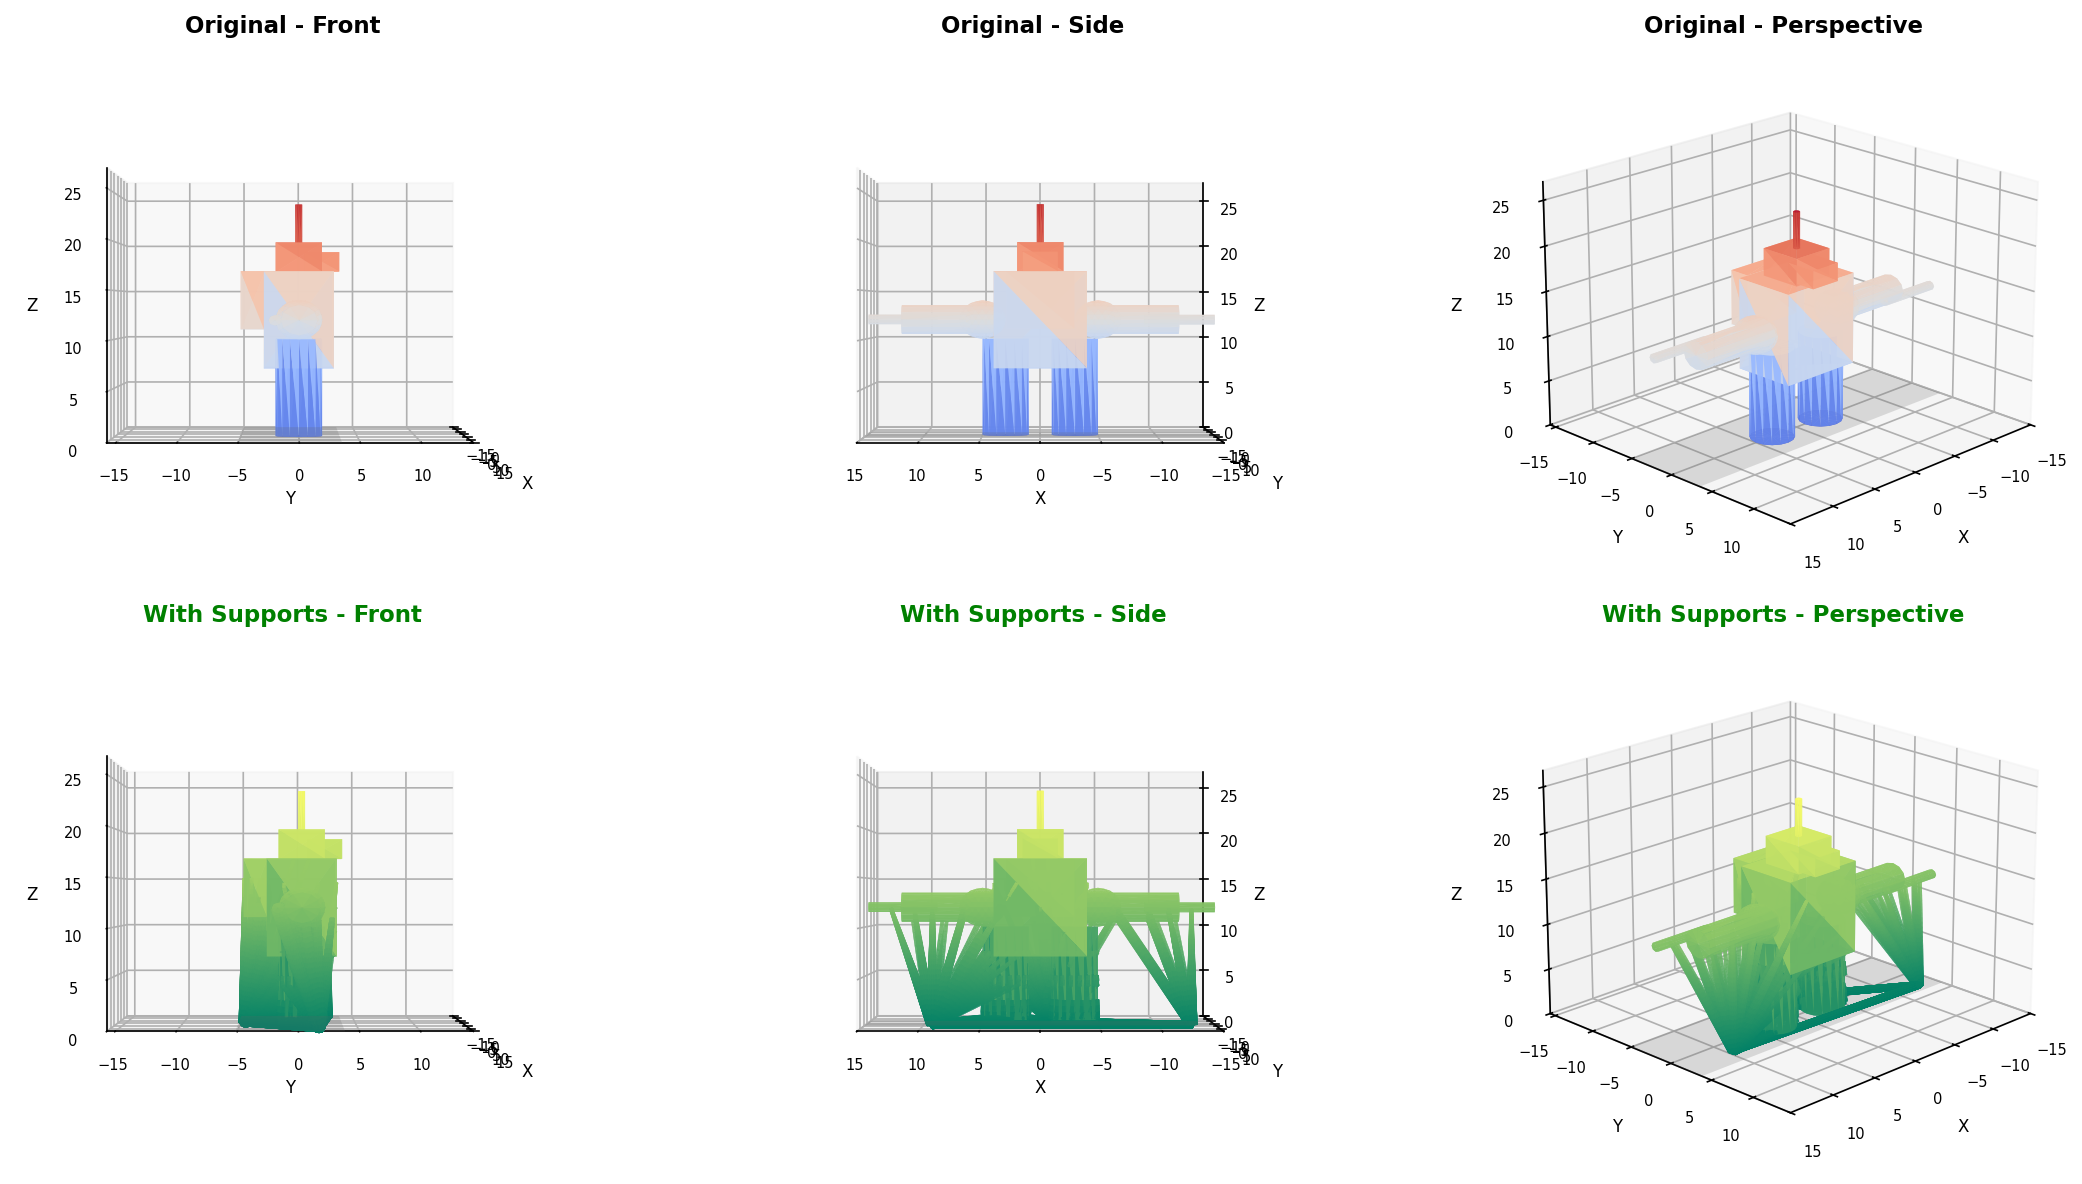
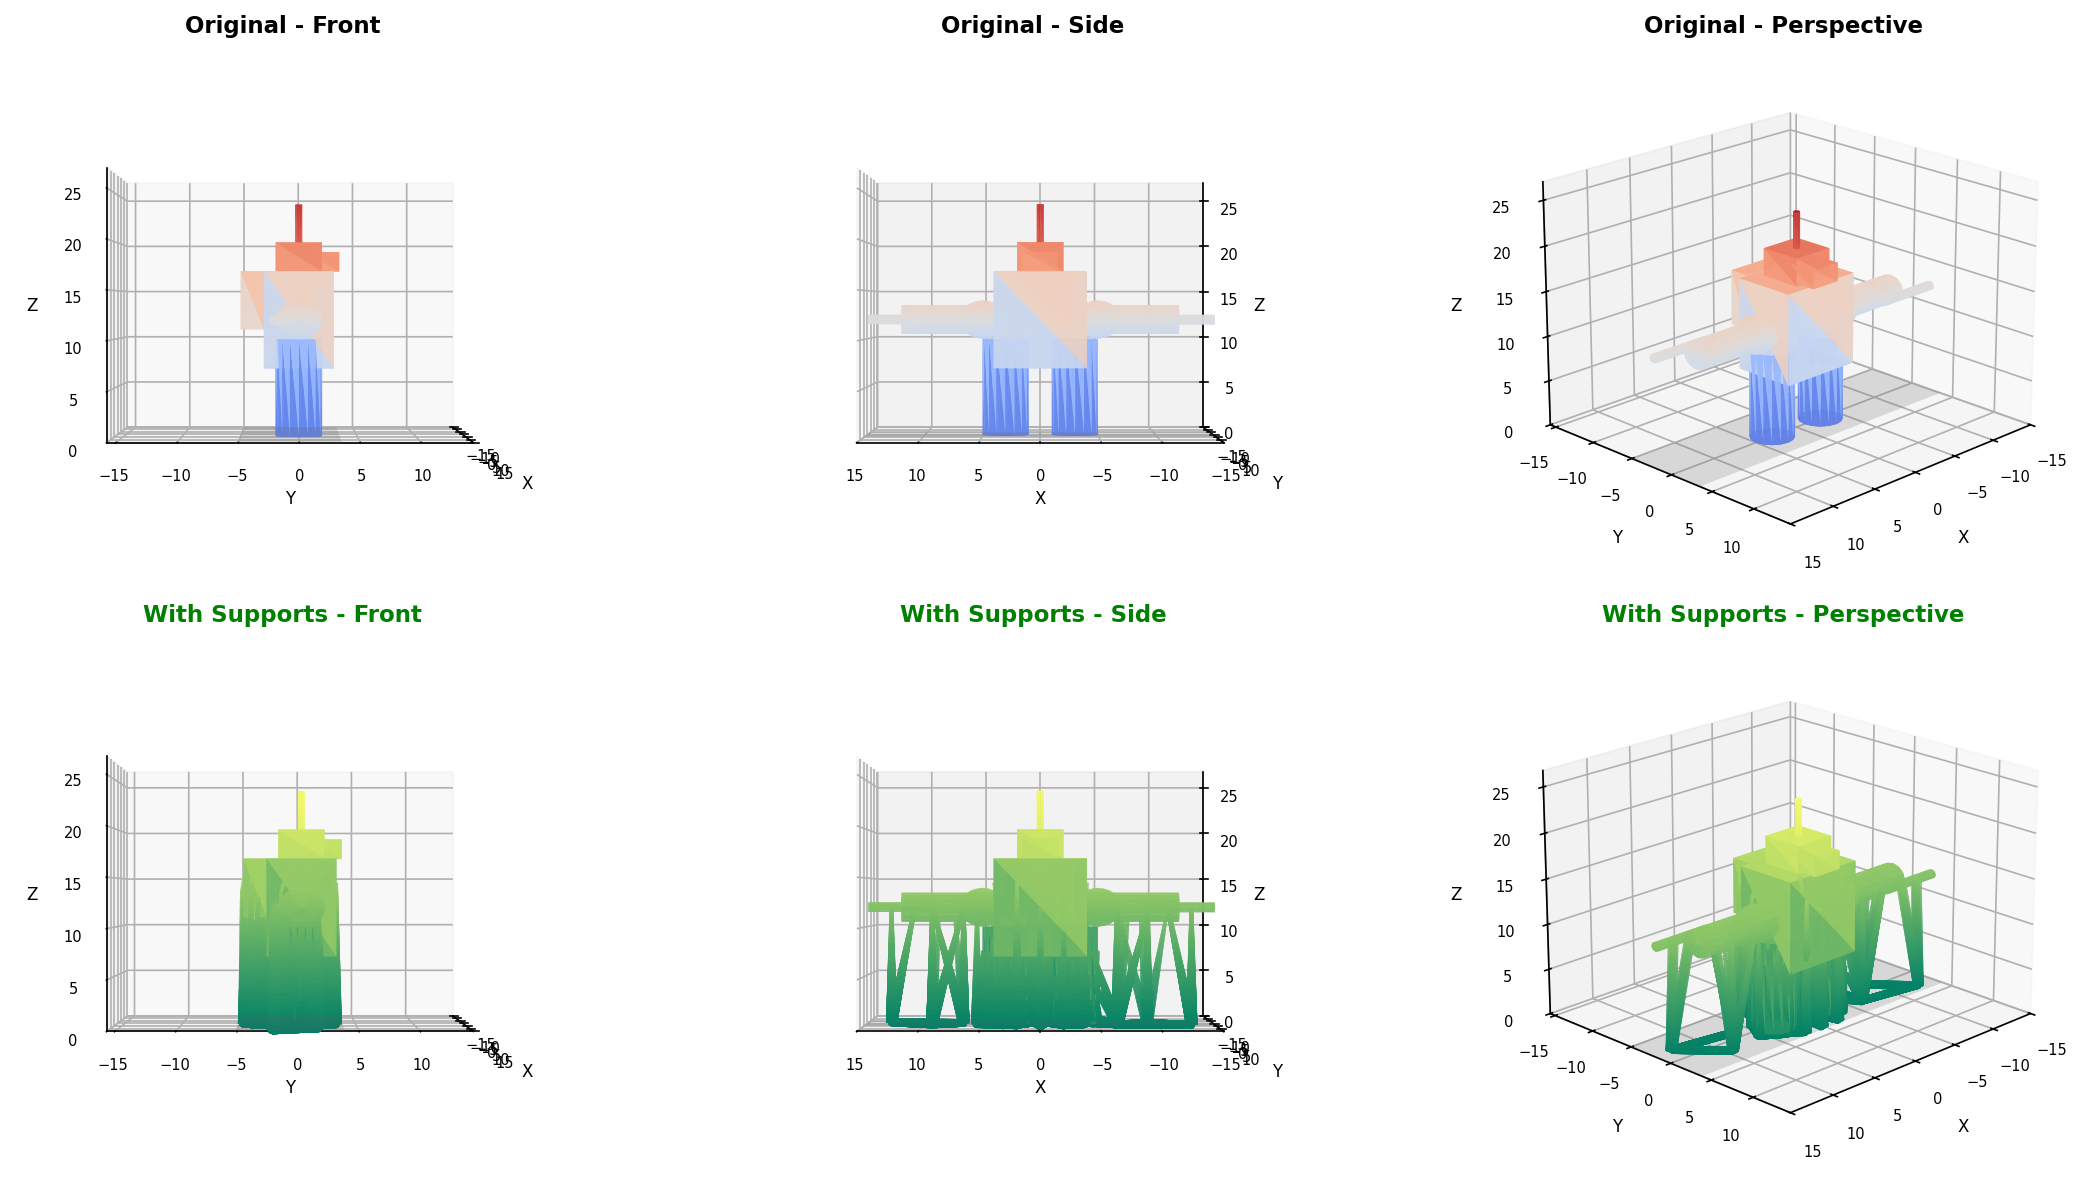
Fix lattice tower clustering algorithm to prevent mega-towers
**Problem:**
The original clustering algorithm grouped all supports into a single
massive tower when supports were densely packed. With LATTICE_SPACING=10mm
and typical support spacing of ~9mm, nearly all supports clustered together.

**Solution:**
1. Reduced LATTICE_SPACING from 10mm to 8mm for tighter clustering
2. Added LATTICE_MAX_CLUSTER_SIZE=30 to subdivide oversized clusters
3. Increased LATTICE_MIN_CLUSTER_SIZE from 3 to 5 for better tower quality
4. Implemented _subdivide_cluster() method using spatial subdivision
5. Added diagnostic output showing cluster distribution

**Results:**
- Test mech now generates 11 distributed lattice towers (was 1)
- Each tower consolidates 28-30 supports (manageable size)
- Towers are spatially distributed across build plate
- Visible triangular braced structures in renders
- Better load distribution and easier support removal

**Configuration Changes:**
- LATTICE_SPACING: 10.0 -> 8.0 mm
- Added LATTICE_MAX_CLUSTER_SIZE: 30 supports
- LATTICE_MIN_CLUSTER_SIZE: 3 -> 5 supports

Includes debug script (debug_lattice.py) for analyzing support distribution
and updated comparison.png showing improved tower distribution.

diff --git a/lattice_tower.py b/lattice_tower.py
@@ -19,6 +19,7 @@ class LatticeTowerGenerator:
     def cluster_support_endpoints(self, support_endpoints, spacing=None):
         """
         Cluster support endpoints into groups for lattice towers
+        Subdivides large clusters to prevent mega-towers
 
         Args:
             support_endpoints: List of [x, y, z] points where supports reach down
@@ -31,9 +32,10 @@ class LatticeTowerGenerator:
             spacing = SupportConfig.LATTICE_SPACING
 
         endpoints = [np.array(p) for p in support_endpoints]
-        clusters = []
+        initial_clusters = []
         unclustered = set(range(len(endpoints)))
 
+        # Phase 1: Initial clustering based on spacing
         while unclustered:
             # Start new cluster with first unclustered point
             seed_idx = min(unclustered)
@@ -59,9 +61,57 @@ class LatticeTowerGenerator:
                     cluster.append(idx)
                     unclustered.remove(idx)
 
-            clusters.append(cluster)
+            initial_clusters.append(cluster)
 
-        return clusters
+        # Phase 2: Subdivide oversized clusters
+        final_clusters = []
+        max_size = SupportConfig.LATTICE_MAX_CLUSTER_SIZE
+
+        for cluster in initial_clusters:
+            if len(cluster) <= max_size:
+                final_clusters.append(cluster)
+            else:
+                # Subdivide large cluster using K-means-like approach
+                subdivided = self._subdivide_cluster(cluster, endpoints, max_size)
+                final_clusters.extend(subdivided)
+
+        return final_clusters
+
+    def _subdivide_cluster(self, cluster, endpoints, max_size):
+        """
+        Subdivide a large cluster into smaller sub-clusters
+
+        Args:
+            cluster: List of point indices
+            endpoints: List of all endpoint positions
+            max_size: Maximum cluster size
+
+        Returns:
+            List of sub-clusters
+        """
+        cluster_points = [endpoints[i] for i in cluster]
+
+        # Determine number of sub-clusters needed
+        num_subclusters = (len(cluster) + max_size - 1) // max_size
+
+        # Use simple spatial subdivision
+        # Sort by X coordinate and divide into strips
+        sorted_indices = sorted(cluster, key=lambda idx: endpoints[idx][0])
+
+        subclusters = []
+        subcluster_size = len(cluster) // num_subclusters
+
+        for i in range(num_subclusters):
+            start = i * subcluster_size
+            if i == num_subclusters - 1:
+                # Last cluster gets remaining points
+                end = len(sorted_indices)
+            else:
+                end = (i + 1) * subcluster_size
+
+            subclusters.append(sorted_indices[start:end])
+
+        return subclusters
 
     def create_lattice_tower(self, base_points, build_plate_z, tower_height=None):
         """
@@ -320,12 +370,19 @@ class LatticeTowerGenerator:
                 lowest = min(path, key=lambda p: p[2])
                 endpoints.append(lowest)
 
-        if len(endpoints) < 3:
+        if len(endpoints) < SupportConfig.LATTICE_MIN_CLUSTER_SIZE:
             # Not enough supports to warrant towers
             return [], support_paths
 
         # Cluster endpoints
         clusters = self.cluster_support_endpoints(endpoints)
+
+        print(f"    Clustered {len(endpoints)} endpoints into {len(clusters)} clusters")
+        for i, cluster in enumerate(clusters):
+            if len(cluster) >= SupportConfig.LATTICE_MIN_CLUSTER_SIZE:
+                print(f"    Cluster {i}: {len(cluster)} supports -> creating tower")
+            else:
+                print(f"    Cluster {i}: {len(cluster)} supports -> too small, using individual supports")
 
         tower_meshes = []
         modified_paths = []
@@ -339,7 +396,7 @@ class LatticeTowerGenerator:
         # Create towers for each cluster
         cluster_towers = {}
         for cluster_idx, cluster in enumerate(clusters):
-            if len(cluster) < 3:
+            if len(cluster) < SupportConfig.LATTICE_MIN_CLUSTER_SIZE:
                 # Too few supports for tower
                 continue
 

diff --git a/debug_lattice.py b/debug_lattice.py
@@ -1,0 +1,107 @@
+#!/usr/bin/env python3
+"""
+Debug script to check lattice tower clustering
+"""
+
+import trimesh
+import numpy as np
+from support_structures import SupportGenerator
+from overhang_detector import OverhangDetector
+from island_detector import IslandDetector
+from config import SupportConfig
+
+# Load test mech
+mesh = trimesh.load('test_models/test_mech.stl')
+
+# Get support points
+island_detector = IslandDetector(mesh)
+islands = island_detector.detect_islands()
+
+overhang_detector = OverhangDetector(mesh)
+overhangs = overhang_detector.detect_overhangs()
+bridges = overhang_detector.detect_bridges()
+
+support_points = islands + overhangs + bridges
+
+print(f"Total support points: {len(support_points)}")
+print(f"Model bounds: {mesh.bounds}")
+print(f"Model size: {mesh.bounds[1] - mesh.bounds[0]}")
+
+# Generate supports
+generator = SupportGenerator(mesh)
+
+# Route paths
+build_plate_z = mesh.bounds[0, 2]
+support_paths = []
+
+print("\nRouting a sample of paths...")
+for i, point in enumerate(support_points[:50]):  # Just first 50 for testing
+    start_point = [point['x'], point['y'], point['z']]
+    height = point['z'] - build_plate_z
+
+    if height < SupportConfig.MIN_SUPPORT_HEIGHT:
+        continue
+
+    tip_radius = SupportConfig.SUPPORT_TIP_DIAMETER / 2
+    path = generator.path_router.route_support_path(
+        start_point,
+        target_z=None,
+        radius=tip_radius,
+        max_iterations=300
+    )
+
+    if path is not None:
+        support_paths.append(path)
+
+print(f"Routed {len(support_paths)} paths")
+
+# Extract endpoints
+endpoints = []
+for path in support_paths:
+    if len(path) > 0:
+        lowest = min(path, key=lambda p: p[2])
+        endpoints.append(lowest)
+
+print(f"\nEndpoints extracted: {len(endpoints)}")
+
+# Check endpoint distribution
+if endpoints:
+    endpoints_array = np.array(endpoints)
+    print(f"Endpoint XY range: X=[{endpoints_array[:,0].min():.1f}, {endpoints_array[:,0].max():.1f}], "
+          f"Y=[{endpoints_array[:,1].min():.1f}, {endpoints_array[:,1].max():.1f}]")
+    print(f"Endpoint Z range: [{endpoints_array[:,2].min():.1f}, {endpoints_array[:,2].max():.1f}]")
+
+# Test clustering
+from lattice_tower import LatticeTowerGenerator
+
+lattice_gen = LatticeTowerGenerator()
+
+print(f"\nClustering with spacing={SupportConfig.LATTICE_SPACING}mm...")
+clusters = lattice_gen.cluster_support_endpoints(endpoints, SupportConfig.LATTICE_SPACING)
+
+print(f"Found {len(clusters)} clusters:")
+for i, cluster in enumerate(clusters):
+    print(f"  Cluster {i}: {len(cluster)} supports")
+    if len(cluster) >= 3:
+        print(f"    -> Will create lattice tower")
+    else:
+        print(f"    -> Too small for tower (need 3+)")
+
+# Calculate distances between endpoints
+print("\nAnalyzing endpoint spacing...")
+if len(endpoints) > 1:
+    distances = []
+    for i in range(len(endpoints)):
+        for j in range(i+1, len(endpoints)):
+            dist_2d = np.linalg.norm(np.array(endpoints[i][:2]) - np.array(endpoints[j][:2]))
+            distances.append(dist_2d)
+
+    distances = np.array(distances)
+    print(f"  Min distance: {distances.min():.2f}mm")
+    print(f"  Max distance: {distances.max():.2f}mm")
+    print(f"  Mean distance: {distances.mean():.2f}mm")
+    print(f"  Median distance: {np.median(distances):.2f}mm")
+
+    # Suggest better spacing
+    suggested_spacing = np.percentile(distances, 75)
+    print(f"\nSuggested LATTICE_SPACING: {suggested_spacing:.1f}mm (75th percentile)")

diff --git a/config.py b/config.py
@@ -56,7 +56,9 @@ class SupportConfig:
     LATTICE_TOWER_ENABLED = True  # Use lattice towers to consolidate support roots
     LATTICE_STRUT_DIAMETER = 0.8  # mm - diameter of lattice bracing struts
     LATTICE_MAIN_DIAMETER = 1.0  # mm - diameter of main lattice verticals
-    LATTICE_SPACING = 10.0  # mm - spacing between lattice tower centers
+    LATTICE_SPACING = 8.0  # mm - spacing between lattice tower centers (reduced from 10mm)
+    LATTICE_MAX_CLUSTER_SIZE = 30  # Maximum supports per tower before subdividing
+    LATTICE_MIN_CLUSTER_SIZE = 5  # Minimum supports to warrant a tower (was 3)
     LATTICE_BRACE_ANGLE = 60.0  # degrees - angle of diagonal braces
 
     # Collision avoidance and routing
